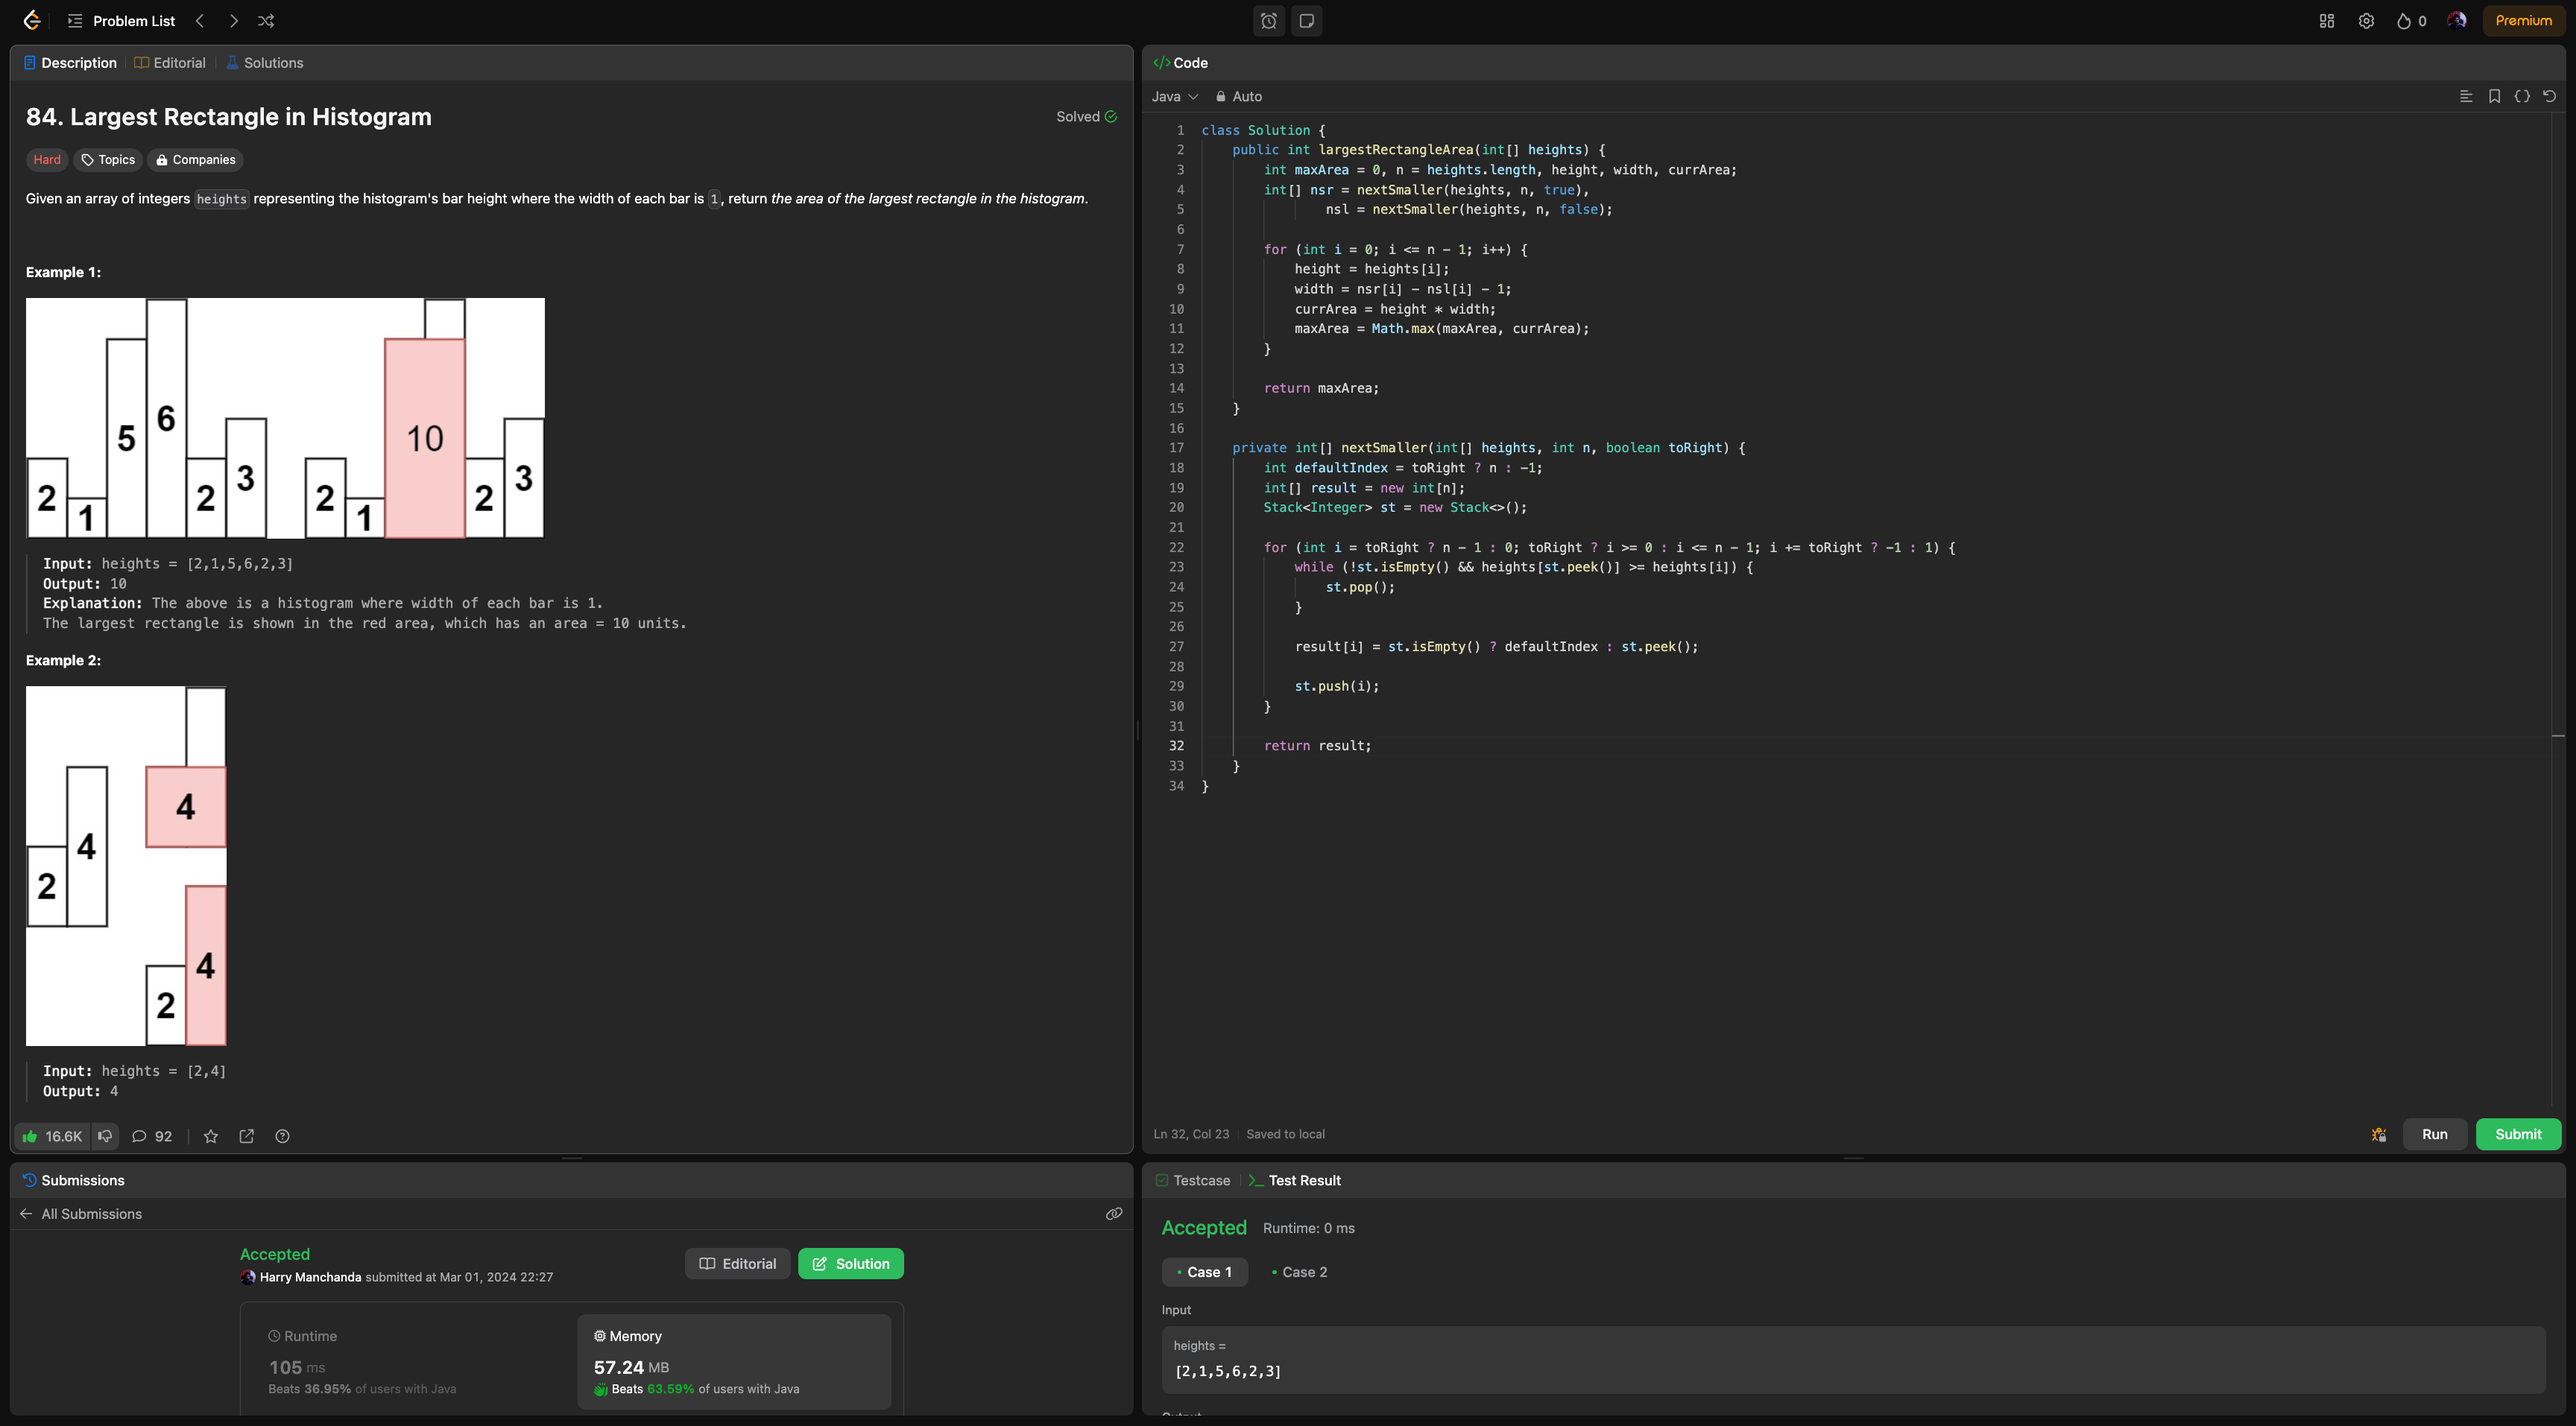
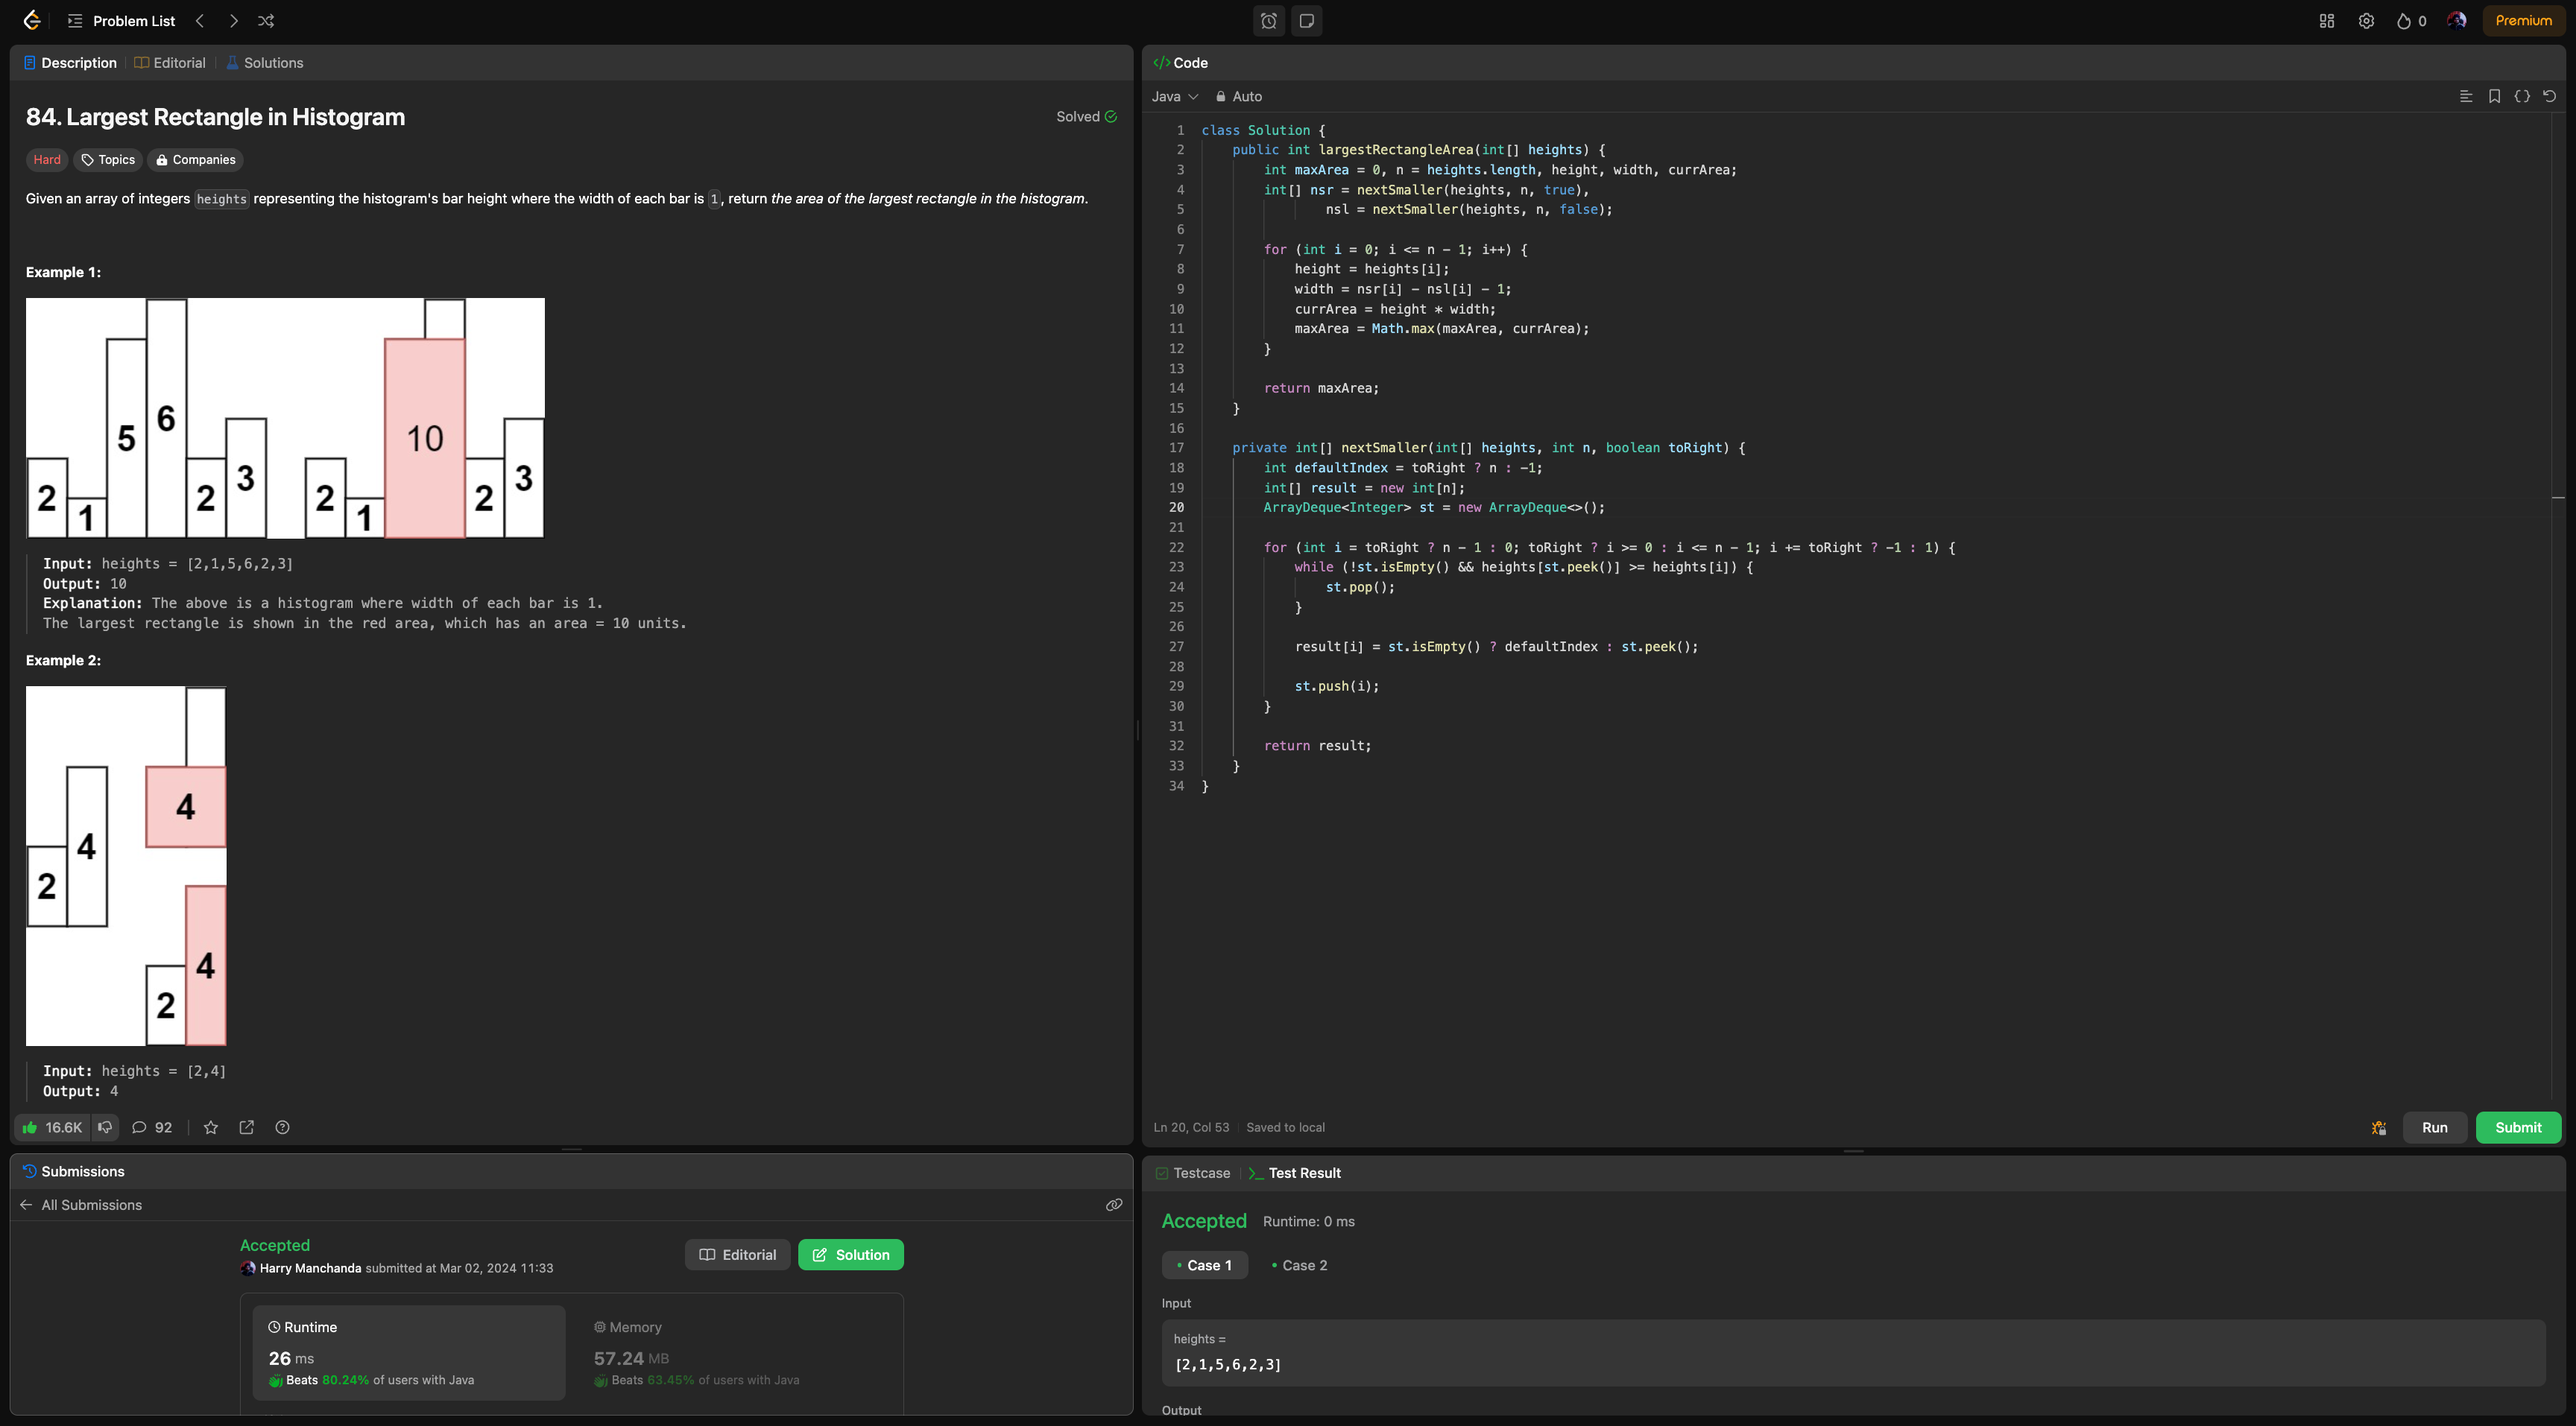
Fix speed issues for Largest Rectangle in Histogram

diff --git a/181-largest-rectangle-in-histogram/001-solution/Solution.java b/181-largest-rectangle-in-histogram/001-solution/Solution.java
@@ -4,7 +4,7 @@ import java.util.*;
  * Largest Rectangle in Histogram
  * https://leetcode.com/problems/largest-rectangle-in-histogram/description/
  * 
- * Approach: Using Stack
+ * Approach: Using Stack (ArrayDeque)
  * - Time complexity: O(n)
  * - Space complexity: O(n)
  */
@@ -28,7 +28,7 @@ public class Solution {
     private int[] nextSmaller(int[] heights, int n, boolean toRight) {
         int defaultIndex = toRight ? n : -1;
         int[] result = new int[n];
-        Stack<Integer> st = new Stack<>();
+        ArrayDeque<Integer> st = new ArrayDeque<>();
 
         for (int i = toRight ? n - 1 : 0; toRight ? i >= 0 : i <= n - 1; i += toRight ? -1 : 1) {
             while (!st.isEmpty() && heights[st.peek()] >= heights[i]) {
